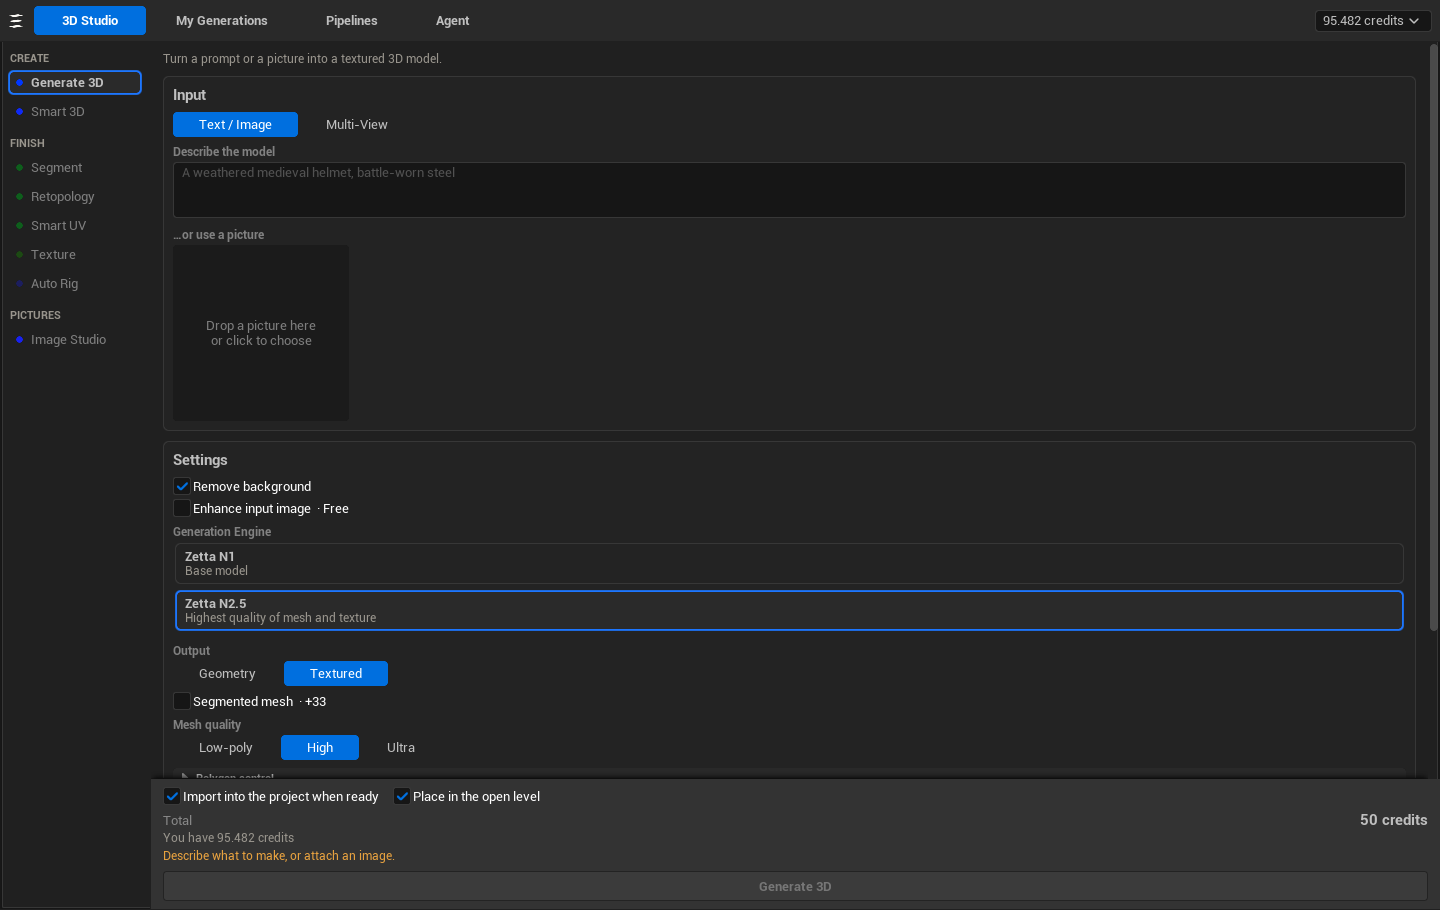
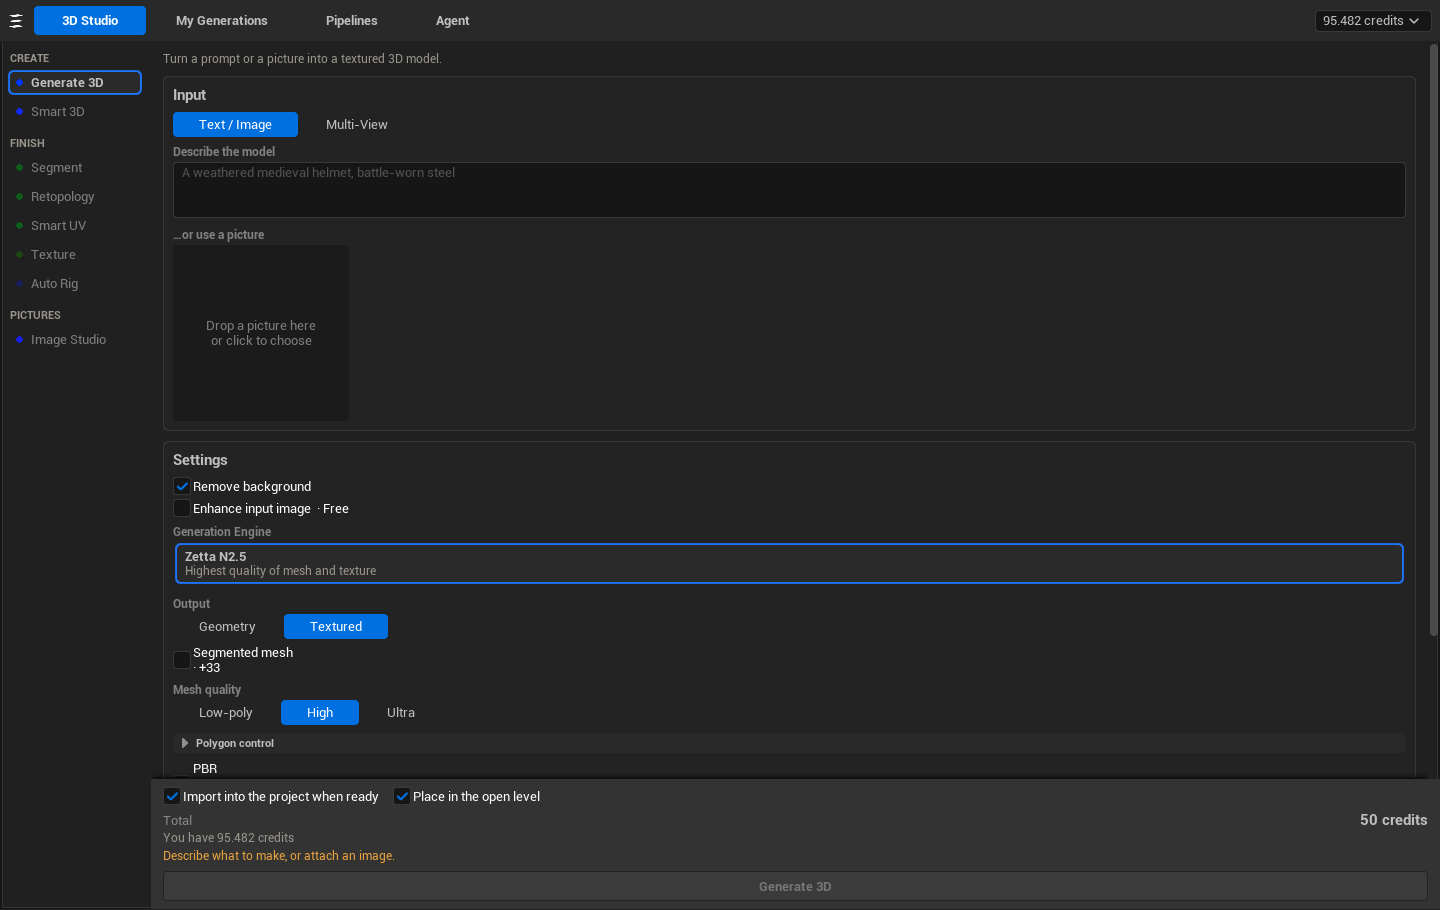
fixed some stuff and making a release

Changed region(s): [[0.125, 0.5846, 0.2812, 0.8615]]

diff --git a/Source/Zetta3DEditor/Private/Pipelines/ZettaPipelineSettings.cpp b/Source/Zetta3DEditor/Private/Pipelines/ZettaPipelineSettings.cpp
@@ -29,8 +29,8 @@ namespace ZettaToolSettings
 	const TArray<FZettaSettingOption>& RetopologyEngines()
 	{
 		static const TArray<FZettaSettingOption> L = {
-			{ TEXT("r1"), TEXT("Zetta R1"), TEXT("Up to 20,000 polygons. Faster, and less than half the price.") },
-			{ TEXT("n1"), TEXT("Zetta N1"), TEXT("No polygon ceiling — the option for a dense mesh.") },
+			// Zetta R1 alone: Zetta N1 was retired on 2026-11-18, as on zetta3d.ai.
+			{ TEXT("r1"), TEXT("Zetta R1"), TEXT("Up to 20,000 polygons, as triangles or quads.") },
 		};
 		return L;
 	}
@@ -461,7 +461,7 @@ namespace ZettaGenerateForm
 		F->SetBoolField(TEXT("imageFromPrompt"), false);
 		F->SetBoolField(TEXT("removeBackground"), true);
 		F->SetBoolField(TEXT("controlMode"), true);
-		F->SetStringField(TEXT("model"), TEXT("n1"));
+		F->SetStringField(TEXT("model"), TEXT("n25"));
 		F->SetStringField(TEXT("imageUrl"), TEXT(""));
 		F->SetStringField(TEXT("prompt"), TEXT(""));
 		F->SetStringField(TEXT("title"), TEXT(""));
@@ -749,7 +749,8 @@ namespace ZettaGenerateForm
 	TArray<FString> ModelsFor(const FString& Kind)
 	{
 		if (ZettaNodeCatalog::IsSmartGenerate(Kind)) return { TEXT("np1"), TEXT("np15") };
-		return { TEXT("n1"), TEXT("n25") };
+		// Zetta N1 was retired on 2026-11-18 (as on zetta3d.ai): never offered or sent; old library rows still name it.
+		return { TEXT("n25") };
 	}
 
 	FString ModelOf(const TSharedPtr<FJsonObject>& Form) { return JStr(Form, TEXT("model")); }

diff --git a/Source/Zetta3DAgent/Private/Tools/ZettaStudioTools.cpp b/Source/Zetta3DAgent/Private/Tools/ZettaStudioTools.cpp
@@ -197,7 +197,7 @@ namespace ZettaStudioImpl
 			OutError = TEXT("The prompt is longer than 1,024 characters.");
 			return false;
 		}
-		if (!PickChoice(In, TEXT("model"), { TEXT("n1"), TEXT("n25"), TEXT("np1"), TEXT("np15") }, TEXT("n1"), O.Model, OutError)) return false;
+		if (!PickChoice(In, TEXT("model"), { TEXT("n25"), TEXT("np1"), TEXT("np15") }, TEXT("n25"), O.Model, OutError)) return false;
 		if (!PickChoice(In, TEXT("quality"), { TEXT("low-poly"), TEXT("high-res"), TEXT("ultra") }, TEXT("high-res"), O.Quality, OutError)) return false;
 		if (!PickChoice(In, TEXT("output"), { TEXT("textured"), TEXT("geometry") }, TEXT("textured"), O.Output, OutError)) return false;
 		if (!PickChoice(In, TEXT("polygonType"), { TEXT("triangle"), TEXT("quadrilateral") }, TEXT("triangle"), O.PolygonType, OutError)) return false;

diff --git a/Source/Zetta3DAgent/Private/Tools/ZettaRequestBuilders.cpp b/Source/Zetta3DAgent/Private/Tools/ZettaRequestBuilders.cpp
@@ -71,7 +71,7 @@ namespace ZettaRequestBuildersImpl
 			return false;
 		}
 		FString Engine, PolygonType, Level;
-		if (!Pick(O, ZettaTool::Has(O, TEXT("engine")) ? TEXT("engine") : TEXT("model"), { TEXT("r1"), TEXT("n1") }, TEXT("r1"), Engine, OutError)) return false;
+		if (!Pick(O, ZettaTool::Has(O, TEXT("engine")) ? TEXT("engine") : TEXT("model"), { TEXT("r1") }, TEXT("r1"), Engine, OutError)) return false;
 		if (!Pick(O, TEXT("polygonType"), { TEXT("triangle"), TEXT("quadrilateral") }, TEXT("triangle"), PolygonType, OutError, &PolygonAlias)) return false;
 		const bool bQuads = PolygonType == TEXT("quadrilateral");
 		if (!Pick(O, ZettaTool::Has(O, TEXT("detail")) ? TEXT("detail") : TEXT("faceLevel"), { TEXT("low"), TEXT("medium"), TEXT("high") }, FString(), Level, OutError)) return false;

diff --git a/Source/Zetta3DEditor/Private/Studio/SZettaGenerateTool.cpp b/Source/Zetta3DEditor/Private/Studio/SZettaGenerateTool.cpp
@@ -33,7 +33,7 @@ namespace
 void SZettaGenerateTool::Construct(const FArguments& InArgs)
 {
 	bSmart = InArgs._Smart;
-	O.Model = bSmart ? TEXT("np1") : TEXT("n1");
+	O.Model = bSmart ? TEXT("np1") : TEXT("n25");
 	O.Quality = TEXT("high-res");
 	O.Output = TEXT("textured");
 	O.bPbr = true;
@@ -55,7 +55,7 @@ void SZettaGenerateTool::Construct(const FArguments& InArgs)
 			{
 				const FZettaEntitlements3D* G = FZettaStudioContext::Get().G3();
 				return bSmart && G && FZettaStudioContext::No(G->AllowsZettaNp1)
-					? LOCTEXT("SmartLocked", "Generate Smart 3D is available on a paid plan. Zetta N1 generates from text and images on every plan.")
+					? LOCTEXT("SmartLocked", "Generate Smart 3D is available on a paid plan.")
 					: FText();
 			}))
 		]

diff --git a/Source/Zetta3DEditor/Private/Studio/ZettaGenerateSettings.cpp b/Source/Zetta3DEditor/Private/Studio/ZettaGenerateSettings.cpp
@@ -613,7 +613,7 @@ FString SZettaGenerateTool::QualityLock(const FString& Rung) const
 	const TOptional<int64> Max = GenMaxFaces();
 	if (Rung == TEXT("ultra") && Max.IsSet() && Max.GetValue() < 1000000) return TEXT("Ultra detail is available on paid plans.");
 	if (Rung == TEXT("low-poly") && GenGateNo(&FZettaEntitlements3D::AllowsLowPoly)) return TEXT("Low-poly generation is available on a paid plan.");
-	if (Rung == TEXT("low-poly") && !ZettaCatalog::Model(O.Model).bLowPoly) return TEXT("Low-poly generation needs Zetta N1.");
+	if (Rung == TEXT("low-poly") && !ZettaCatalog::Model(O.Model).bLowPoly) return TEXT("Low-poly generation needs Zetta N2.5.");
 	return FString();
 }
 

diff --git a/Source/Zetta3DEditor/Private/Studio/ZettaFinishingTools.cpp b/Source/Zetta3DEditor/Private/Studio/ZettaFinishingTools.cpp
@@ -153,7 +153,8 @@ TSharedRef<SWidget> SZettaRetopologyTool::BuildOptions()
 {
 	return FinishRows({
 		ZettaStudioUI::Field(LOCTEXT("Engine", "Engine"), ZettaStudioUI::Segmented([this]() { return Engine; }, [this](const FString& V) { Engine = V; Refresh(); },
-			{ { TEXT("r1"), LOCTEXT("ZettaR1", "Zetta R1"), FText() }, { TEXT("n1"), LOCTEXT("ZettaN1", "Zetta N1"), FText() } })),
+			// Zetta R1 alone: Zetta N1 was retired on 2026-11-18, as on zetta3d.ai.
+			{ { TEXT("r1"), LOCTEXT("ZettaR1", "Zetta R1"), FText() } })),
 		ZettaStudioUI::Hint(MakeAttributeLambda([this]()
 		{
 			return Engine == TEXT("r1")

diff --git a/Source/Zetta3DEditor/Private/Studio/SZettaGenerateTool.h b/Source/Zetta3DEditor/Private/Studio/SZettaGenerateTool.h
@@ -14,7 +14,7 @@ class SZettaImageInput;
 class SZettaMultiViewInput;
 
 /**
- * Generate 3D (Zetta N1 / N2.5) and Smart 3D (Zetta Np1 / Np1.5): from a prompt, a picture or several views.
+ * Generate 3D (Zetta N2.5) and Smart 3D (Zetta Np1 / Np1.5): from a prompt, a picture or several views.
  * A prompt is drawn as a picture first when the model builds from pictures (and always with Control Mode,
  * which stops to show it before any 3D credits are spent).
  *

diff --git a/Source/Zetta3DEditor/Public/ZettaRequests.h b/Source/Zetta3DEditor/Public/ZettaRequests.h
@@ -17,7 +17,7 @@ struct ZETTA3DEDITOR_API FZettaGenerateOptions
 	/** Multi-view: (viewType, url) in submission order; front becomes the primary image server-side. */
 	TArray<TPair<FString, FString>> Views;
 
-	FString Model = TEXT("n1");
+	FString Model = TEXT("n25");
 	/** low-poly | high-res | ultra */
 	FString Quality = TEXT("high-res");
 	/** textured | geometry */

diff --git a/Source/Zetta3DEditor/Private/ZettaCatalog.cpp b/Source/Zetta3DEditor/Private/ZettaCatalog.cpp
@@ -51,7 +51,8 @@ namespace ZettaCatalog
 
 	const TArray<FString>& GenerateModels()
 	{
-		static const TArray<FString> L = { TEXT("n1"), TEXT("n25") };
+		// Zetta N1 was retired on 2026-11-18 (as on zetta3d.ai): never offered or sent; old library rows still name it.
+		static const TArray<FString> L = { TEXT("n25") };
 		return L;
 	}
 

diff --git a/README.md b/README.md
@@ -7,7 +7,7 @@
 
 <p align="center">
   <a href="#install"><img alt="Unreal Engine 5.8" src="https://img.shields.io/badge/Unreal%20Engine-5.8-15130F?style=flat-square&logo=unrealengine&logoColor=FAF8F4"></a>
-  <a href="#install"><img alt="Windows · macOS · Linux" src="https://img.shields.io/badge/editor-Windows%20%C2%B7%20macOS%20%C2%B7%20Linux-15130F?style=flat-square"></a>
+  <a href="#install"><img alt="macOS · Windows coming soon" src="https://img.shields.io/badge/release-macOS%20%C2%B7%20Windows%20soon-15130F?style=flat-square"></a>
   <a href="#the-zetta-agent"><img alt="AI agent built in" src="https://img.shields.io/badge/AI%20agent-built%20in-1677FF?style=flat-square"></a>
   <a href="#license"><img alt="Apache-2.0" src="https://img.shields.io/badge/license-Apache--2.0-55514A?style=flat-square"></a>
 </p>
@@ -44,17 +44,25 @@ Everything you make is also in your library on zetta3d.ai, and everything you ma
 
 ## Install
 
-**You need:** Unreal Engine **5.8** on Windows, macOS or Linux, and a [Zetta 3D](https://zetta3d.ai) account.
+**You need:** Unreal Engine **5.8** and a [Zetta 3D](https://zetta3d.ai) account.
 
-**From a release (recommended — works in Blueprint-only projects).**
+| Platform | How to install |
+|---|---|
+| **macOS** (Apple Silicon and Intel) | The release zip below — prebuilt, works in Blueprint-only projects |
+| **Windows** | Prebuilt zip **coming soon**. Until then, install from source (below) with Visual Studio |
+| **Linux** | From source (below) |
 
-1. Download the zip for your engine version and platform from [Releases](../../releases).
+**From a release (macOS — recommended, works in Blueprint-only projects).**
+
+1. Download `Zetta3D-<version>-UE5.8-Mac.zip` from [Releases](../../releases).
 2. Unzip it into your project's `Plugins` folder, so you have `YourProject/Plugins/Zetta3D/Zetta3D.uplugin`.
    (To have it in every project, unzip it into the engine's `Engine/Plugins/Marketplace/` instead.)
 3. Open the project. The **Zetta 3D** window opens on its own.
 
-**From source (C++ projects).** Clone this repository into `YourProject/Plugins/Zetta3D` and open the project; Unreal
-offers to build the plugin. You need your engine's C++ toolchain (Visual Studio on Windows, Xcode on macOS).
+**From source (Windows and Linux today, or any C++ project).** Clone this repository into
+`YourProject/Plugins/Zetta3D` and open the project; Unreal offers to build the plugin. You need your engine's C++
+toolchain (Visual Studio on Windows, Xcode on macOS, clang on Linux) and a project with C++ in it — a Blueprint-only
+project can add C++ with **Tools › New C++ Class**.
 
 The plugin switches on the engine plugins it uses — Python Editor Script Plugin, Editor Scripting Utilities and
 Enhanced Input. GLB and FBX models import with the engine's own importers.
@@ -77,12 +85,12 @@ the level editor's toolbar, and dock it wherever you like. Each tab keeps its pl
 Every tool from the web Studio, docked in the editor — with live prices and your plan's options.
 
 <p align="center">
-  <img alt="3D Studio on Generate 3D: a prompt or a picture, the Zetta N1 and N2.5 engines, output and quality choices, and Import into the project / Place in the open level" src="Docs/images/studio.png" width="860">
+  <img alt="3D Studio on Generate 3D: a prompt or a picture, the Zetta N2.5 engine, output and quality choices, and Import into the project / Place in the open level" src="Docs/images/studio.png" width="860">
 </p>
 
 | Tool | What it does |
 |---|---|
-| **Generate 3D** | Text, a picture or several views → a 3D model, on Zetta N1 or N2.5, with every option the web Studio has |
+| **Generate 3D** | Text, a picture or several views → a 3D model, on Zetta N2.5, with every option the web Studio has |
 | **Smart 3D** | Clean, game-ready topology from the start, on Zetta Np1 or Np1.5 |
 | **Segment** | Split a model into named parts (or let Smart Segment decide them) |
 | **Retopology** | Rebuild a mesh at a polygon budget, as triangles or quads |

diff --git a/Docs/release-notes/v0.1.0.md b/Docs/release-notes/v0.1.0.md
@@ -1,0 +1,43 @@
+**Zetta 3D for Unreal Engine 0.1.0** — the first release (beta). 3D models and an AI agent, inside the Unreal Editor.
+
+## Downloads
+
+| Platform | File | Status |
+|---|---|---|
+| **macOS** (Apple Silicon and Intel) | `Zetta3D-0.1.0-UE5.8-Mac.zip` | ✅ Available — attached below |
+| **Windows** | `Zetta3D-0.1.0-UE5.8-Win64.zip` | 🔜 **Coming soon** — until then, build from source with Visual Studio |
+| **Linux** | — | Build from source |
+
+For **Unreal Engine 5.8**. The macOS zip has prebuilt binaries, so it works in Blueprint-only projects — no C++
+toolchain needed.
+
+## Install (macOS)
+
+1. Download `Zetta3D-0.1.0-UE5.8-Mac.zip` below.
+2. Unzip it into your project's `Plugins` folder, so you have `YourProject/Plugins/Zetta3D/Zetta3D.uplugin`.
+3. Open the project. The **Zetta 3D** window opens on its own — click **Sign in with your browser**, then
+   **Connect Unreal Engine** on zetta3d.ai.
+
+**Windows or Linux today:** clone the repository into `YourProject/Plugins/Zetta3D` in a project with C++ in it and open
+it; Unreal offers to build the plugin.
+
+## What's in it
+
+- **3D Studio** — Generate 3D (Zetta N2.5), Smart 3D (Zetta Np1 and Np1.5), Segment, Retopology, Smart UV, Texture,
+  Auto Rig (UE5 Mannequin skeleton by default) and the Image Studio, with live prices and your plan's options.
+- **My Generations** — your library: import, place in the level, drag into the level, send to a tool, fork; pipeline
+  runs as one tile.
+- **3D Pipelines** — the node canvas, Describe it, runs on up to 20 seeds, and importing their results.
+- **The Zetta Agent** — works in your level, Blueprints, materials and C++, compiles what it writes (Live Coding on
+  Windows, hot reload on macOS), checks its work in the viewport, and makes 3D models and pictures. Every change can be
+  undone. Runs on your Zetta account, or on your own Gemini, OpenAI, DeepSeek, Claude, GLM or Meta API key.
+
+## Good to know
+
+- This is a beta: tell us what breaks in [Issues](../../issues).
+- Your sign-in and any API keys are kept in your system's key store, never in the project. See
+  [SECURITY.md](../../blob/main/SECURITY.md) for what the plugin and its agent send.
+- Open source under the [Apache License 2.0](../../blob/main/LICENSE.md). The Zetta 3D name and logo are not covered
+  by the license — see [NOTICE](../../blob/main/NOTICE).
+
+Full details in the [README](../../blob/main/README.md) and [CHANGELOG](../../blob/main/CHANGELOG.md).

diff --git a/CHANGELOG.md b/CHANGELOG.md
@@ -2,6 +2,9 @@
 
 ## 0.1.0 — first release (beta)
 
+A prebuilt release for **macOS** (Apple Silicon and Intel) on Unreal Engine 5.8. A prebuilt Windows build is coming
+soon; until then, Windows users can build it from source.
+
 - Sign in with your browser; the session is kept in your system's key store.
 - **3D Studio:** Generate 3D, Smart 3D, Segment, Retopology, Smart UV, Texture, Auto Rig (UE5 Mannequin skeleton
   first) and the Image Studio, with live prices and your plan's options.
